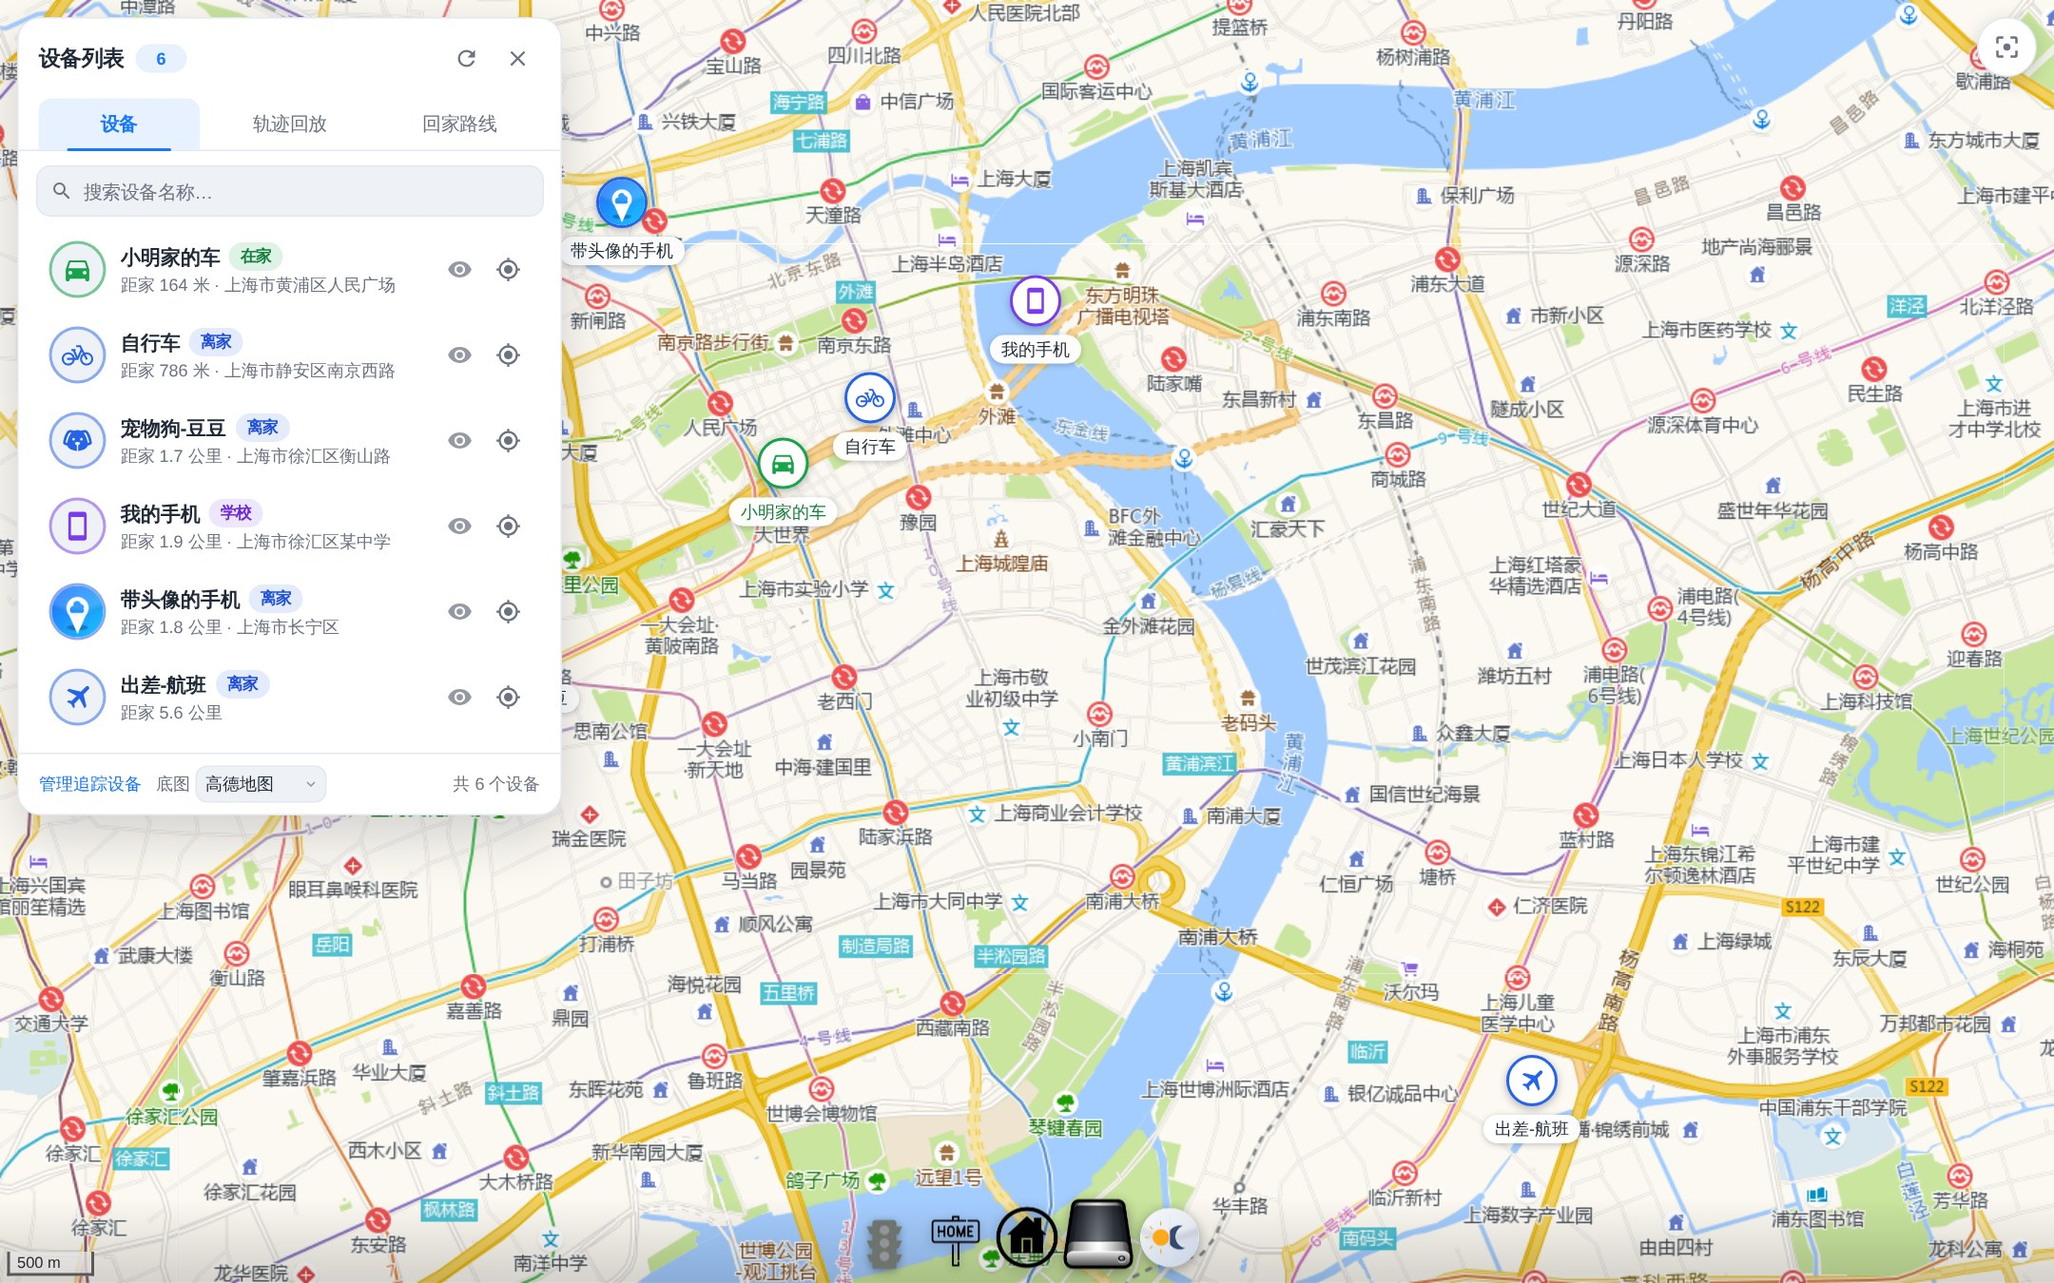
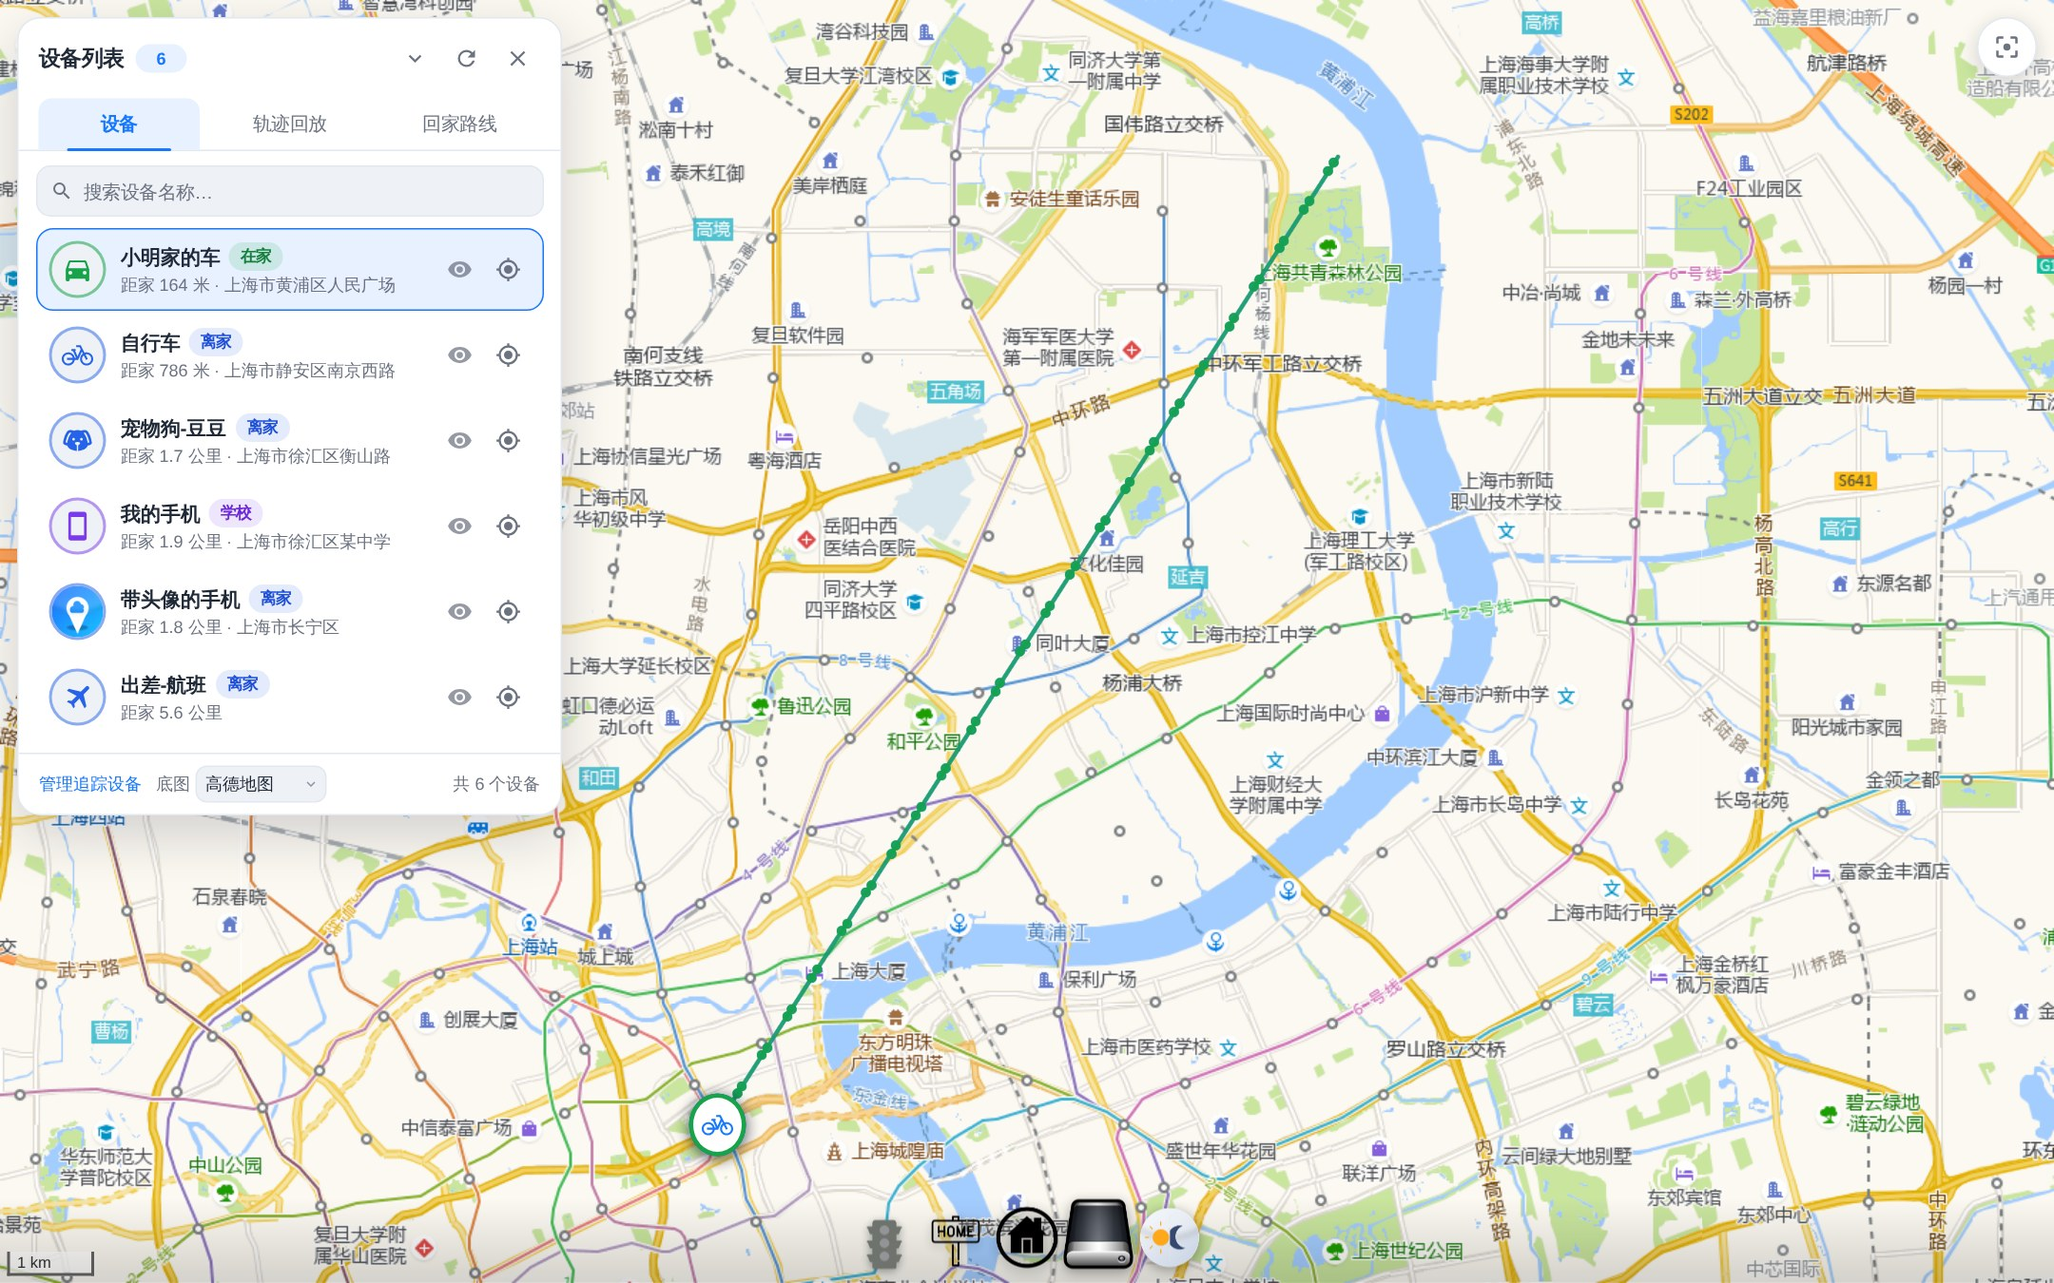
feat: v1.14.0 — 设备列表可收起、修复轨迹页首次列表偏矮、致谢 ryan map-card
- 面板标题栏新增收起/展开设备列表按钮：收起后保留页签、轨迹/路线主按钮、播放与位置拖动，隐藏列表/范围/速度/底部栏，移动端面板高度 723→270
- 修复轨迹页首次进入只显示 2 行设备、重新进入变 3 行：内容渲染后延迟重新评估紧凑模式，避免按旧高度套用限高
- 文档：README/CHANGELOG/docs 更新，致谢新增 ryanh7/map-card，预览图更新

diff --git a/custom_components/yunshang_map/www/index.js b/custom_components/yunshang_map/www/index.js
@@ -28,6 +28,7 @@ var trackSelectedOrder = []; // 选择顺序（决定轨迹颜色）
 var trackedDeviceIds = [];   // 已加载轨迹的设备
 var playbackState = "idle";  // idle | playing | paused
 var trackRealtimeHidden = false; // 回放轨迹时隐藏实时设备标记
+var listsCollapsed = false; // 设备列表是否已收起（收起后只保留操作按钮/拖拽条）
 var trackVisible = false;
 var backhomeTrackEnabled = false;
 var backhomeTrackType = "drive";
@@ -133,10 +134,12 @@ function initAuthToken() {
 }
 
 function initStaticUi() {
+    document.getElementById("btnPanelMinimize").innerHTML = ysIcon("chevron-down");
     document.getElementById("btnPanelRefresh").innerHTML = ysIcon("refresh");
     document.getElementById("btnPanelClose").innerHTML = ysIcon("close");
     document.getElementById("searchIcon").innerHTML = ysIcon("magnify");
     document.getElementById("fitViewIcon").innerHTML = ysIcon("image-filter-center-focus");
+    $("#btnPanelMinimize").attr("title", "收起设备列表").attr("aria-label", "收起设备列表").attr("aria-expanded", "true");
     $("#btnPanelRefresh").attr("title", "刷新设备位置").attr("aria-label", "刷新设备位置");
     $("#btnPanelClose").attr("title", "关闭").attr("aria-label", "关闭");
     $("#trackHint").text("");
@@ -183,6 +186,9 @@ function bindUi() {
     });
 
     /* 面板开合 */
+    $("#btnPanelMinimize").on("click", function () {
+        setListsCollapsed(!listsCollapsed);
+    });
     $("#btnPanelClose").on("click", closePanel);
     $("#btnPanelRefresh").on("click", function () {
         var btn = this;
@@ -403,9 +409,12 @@ function openPanel() {
     panelVisible = true;
     document.body.classList.add("ys-panel-open");
     layoutPanel();
+    if (listsCollapsed) {
+        setListsCollapsed(false, true);
+    }
     requestAnimationFrame(function () {
         panel.classList.add("is-open");
-        updatePanelCompact();
+        schedulePanelCompact();
     });
     syncToolbarState(["devicelist"]);
     renderDeviceList(true);
@@ -444,12 +453,48 @@ function switchTab(tab) {
         body.scrollTop = 0;
     }
     SaveState();
-    updatePanelCompact();
     if (tab === "track") {
         renderTrackDeviceList();
         refreshDevices(false);
     } else if (tab === "route") {
         renderRouteList();
+    }
+    schedulePanelCompact();
+}
+
+/** 内容变化后（下一帧/稍后）重新评估抽屉紧凑模式，避免读到旧高度 */
+function schedulePanelCompact() {
+    if (schedulePanelCompact.timer) {
+        clearTimeout(schedulePanelCompact.timer);
+    }
+    requestAnimationFrame(updatePanelCompact);
+    schedulePanelCompact.timer = setTimeout(function () {
+        schedulePanelCompact.timer = null;
+        updatePanelCompact();
+    }, 80);
+}
+
+/** 收起 / 展开设备列表（收起后保留页签、范围、播放、路线等操作） */
+function setListsCollapsed(collapsed, silent) {
+    listsCollapsed = !!collapsed;
+    var card = document.querySelector('#devicePanel .ys-panel-card');
+    if (card) {
+        card.classList.toggle("lists-collapsed", listsCollapsed);
+    }
+    var btn = document.getElementById("btnPanelMinimize");
+    if (btn) {
+        btn.innerHTML = ysIcon(listsCollapsed ? "chevron-up" : "chevron-down");
+        btn.title = listsCollapsed ? "展开设备列表" : "收起设备列表";
+        btn.setAttribute("aria-label", btn.title);
+        btn.setAttribute("aria-expanded", listsCollapsed ? "false" : "true");
+        btn.classList.toggle("is-on", listsCollapsed);
+    }
+    var hint = document.getElementById("listsCollapsedHint");
+    if (hint) {
+        hint.hidden = !listsCollapsed;
+    }
+    if (!silent) {
+        schedulePanelCompact();
     }
 }
 
@@ -470,6 +515,10 @@ function updatePanelCompact() {
     var trackPane = document.querySelector('.ys-pane[data-pane="track"]');
     var apply = !!(trackPane && trackPane.classList.contains("is-active"));
     var loaded = !!trackVisible;
+    if (listsCollapsed) {
+        card.classList.remove("is-compact-1", "is-compact-2", "is-compact-3");
+        return;
+    }
     var h = card.clientHeight;
     card.classList.toggle("is-compact-1", apply && h < 560);
     card.classList.toggle("is-compact-2", apply && loaded && h < 470);
@@ -1006,6 +1055,7 @@ function renderTrackDeviceList() {
     }
     container.innerHTML = html.length ? html.join("") : '<div class="ys-hint">暂无可选设备</div>';
     updatePlaybackUi();
+    schedulePanelCompact();
 }
 
 function updateTrackSelectSelection() {
@@ -1550,7 +1600,7 @@ function loadSelectedTracks() {
         updateTrackHintText();
         renderTrackDeviceList();
         renderDeviceList();
-        updatePanelCompact();
+        schedulePanelCompact();
         SaveState();
     }
 
@@ -1631,7 +1681,7 @@ function hideTrack() {
     updateRangeFill(document.getElementById("trackSeek"));
     setTrackHint("");
     renderTrackDeviceList();
-    updatePanelCompact();
+    schedulePanelCompact();
     SaveState();
 }
 

diff --git a/custom_components/yunshang_map/www/index.html b/custom_components/yunshang_map/www/index.html
@@ -15,28 +15,28 @@
 
     <script src="js/jquery-1.12.4.min.js"></script>
 
-    <script src="config.js?v=1.13.0"></script>
-    <script src="js/utils.js?v=1.13.0"></script>
-    <script src="js/language.js?v=1.13.0"></script>
-    <script src="js/theme.js?v=1.13.0"></script>
-    <script src="js/uiicons.js?v=1.13.0"></script>
-    <script src="js/deviceicons.js?v=1.13.0"></script>
-    <script src="js/entityutils.js?v=1.13.0"></script>
+    <script src="config.js?v=1.14.0"></script>
+    <script src="js/utils.js?v=1.14.0"></script>
+    <script src="js/language.js?v=1.14.0"></script>
+    <script src="js/theme.js?v=1.14.0"></script>
+    <script src="js/uiicons.js?v=1.14.0"></script>
+    <script src="js/deviceicons.js?v=1.14.0"></script>
+    <script src="js/entityutils.js?v=1.14.0"></script>
 
-    <script src="js/dock.js?v=1.13.0"></script>
-    <link rel="stylesheet" href="css/dock.css?v=1.13.0">
+    <script src="js/dock.js?v=1.14.0"></script>
+    <link rel="stylesheet" href="css/dock.css?v=1.14.0">
 
     <link rel="stylesheet" href="leaflet/leaflet.css" />
     <link rel="stylesheet" href="leaflet/markercluster.css" />
     <link rel="stylesheet" href="leaflet/markercluster-default.css" />
-    <script src="leaflet/leaflet.js?v=1.13.0"></script>
-    <script src="leaflet/markercluster.js?v=1.13.0"></script>
-    <script src="leaflet/proj4.js?v=1.13.0"></script>
-    <script src="leaflet/proj4leaflet.js?v=1.13.0"></script>
-    <script src="js/geo.js?v=1.13.0"></script>
-    <script src="js/mapleaflet.js?v=1.13.0"></script>
-    <script src="js/map.js?v=1.13.0"></script>
-    <link rel="stylesheet" href="css/map.css?v=1.13.0">
+    <script src="leaflet/leaflet.js?v=1.14.0"></script>
+    <script src="leaflet/markercluster.js?v=1.14.0"></script>
+    <script src="leaflet/proj4.js?v=1.14.0"></script>
+    <script src="leaflet/proj4leaflet.js?v=1.14.0"></script>
+    <script src="js/geo.js?v=1.14.0"></script>
+    <script src="js/mapleaflet.js?v=1.14.0"></script>
+    <script src="js/map.js?v=1.14.0"></script>
+    <link rel="stylesheet" href="css/map.css?v=1.14.0">
 
 </head>
 
@@ -63,6 +63,8 @@
                     <span id="panelCount" class="ys-count">0</span>
                 </div>
                 <div class="ys-panel-header-actions">
+                    <button type="button" id="btnPanelMinimize" class="ys-icon-btn" title="收起设备列表"
+                        aria-label="收起设备列表" aria-expanded="true"></button>
                     <button type="button" id="btnPanelRefresh" class="ys-icon-btn" title="刷新设备位置"></button>
                     <button type="button" id="btnPanelClose" class="ys-icon-btn" title="关闭"></button>
                 </div>
@@ -84,6 +86,7 @@
                     </div>
                     <div class="ys-device-list" id="deviceList"></div>
                     <div class="ys-empty" id="deviceEmpty" hidden>未发现可追踪的设备</div>
+                    <div class="ys-collapsed-hint" id="listsCollapsedHint" hidden>设备列表已收起，点击右上角按钮展开</div>
                 </div>
 
                 <!-- 轨迹回放 -->
@@ -208,7 +211,7 @@
         <img id="toolbar_theme" src="images/toolbar_theme_auto.png" width="42" alt="主题模式" title="主题模式">
     </div>
 
-    <script src="index.js?v=1.13.0"></script>
+    <script src="index.js?v=1.14.0"></script>
 </body>
 
 </html>

diff --git a/custom_components/yunshang_map/www/js/uiicons.js b/custom_components/yunshang_map/www/js/uiicons.js
@@ -3,6 +3,7 @@ var YS_UI_ICONS = {
     "arrow-left": "M20,11V13H8L13.5,18.5L12.08,19.92L4.16,12L12.08,4.08L13.5,5.5L8,11H20Z",
     "arrow-right": "M4,11V13H16L10.5,18.5L11.92,19.92L19.84,12L11.92,4.08L10.5,5.5L16,11H4Z",
     "chevron-down": "M7.41,8.58L12,13.17L16.59,8.58L18,10L12,16L6,10L7.41,8.58Z",
+    "chevron-up": "M7.41,15.41L12,10.83L16.59,15.41L18,14L12,8L6,14L7.41,15.41Z",
     "close": "M19,6.41L17.59,5L12,10.59L6.41,5L5,6.41L10.59,12L5,17.59L6.41,19L12,13.41L17.59,19L19,17.59L13.41,12L19,6.41Z",
     "cog": "M12,15.5A3.5,3.5 0 0,1 8.5,12A3.5,3.5 0 0,1 12,8.5A3.5,3.5 0 0,1 15.5,12A3.5,3.5 0 0,1 12,15.5M19.43,12.97C19.47,12.65 19.5,12.33 19.5,12C19.5,11.67 19.47,11.34 19.43,11L21.54,9.37C21.73,9.22 21.78,8.95 21.66,8.73L19.66,5.27C19.54,5.05 19.27,4.96 19.05,5.05L16.56,6.05C16.04,5.66 15.5,5.32 14.87,5.07L14.5,2.42C14.46,2.18 14.25,2 14,2H10C9.75,2 9.54,2.18 9.5,2.42L9.13,5.07C8.5,5.32 7.96,5.66 7.44,6.05L4.95,5.05C4.73,4.96 4.46,5.05 4.34,5.27L2.34,8.73C2.21,8.95 2.27,9.22 2.46,9.37L4.57,11C4.53,11.34 4.5,11.67 4.5,12C4.5,12.33 4.53,12.65 4.57,12.97L2.46,14.63C2.27,14.78 2.21,15.05 2.34,15.27L4.34,18.73C4.46,18.95 4.73,19.03 4.95,18.95L7.44,17.94C7.96,18.34 8.5,18.68 9.13,18.93L9.5,21.58C9.54,21.82 9.75,22 10,22H14C14.25,22 14.46,21.82 14.5,21.58L14.87,18.93C15.5,18.67 16.04,18.34 16.56,17.94L19.05,18.95C19.27,19.03 19.54,18.95 19.66,18.73L21.66,15.27C21.78,15.05 21.73,14.78 21.54,14.63L19.43,12.97Z",
     "crosshairs": "M3.05,13H1V11H3.05C3.5,6.83 6.83,3.5 11,3.05V1H13V3.05C17.17,3.5 20.5,6.83 20.95,11H23V13H20.95C20.5,17.17 17.17,20.5 13,20.95V23H11V20.95C6.83,20.5 3.5,17.17 3.05,13M12,5A7,7 0 0,0 5,12A7,7 0 0,0 12,19A7,7 0 0,0 19,12A7,7 0 0,0 12,5Z",

diff --git a/custom_components/yunshang_map/www/css/map.css b/custom_components/yunshang_map/www/css/map.css
@@ -2260,3 +2260,28 @@ html[data-theme="dark"] .ys-mode-switch button.is-active {
     color: var(--ys-text-dim);
     white-space: nowrap;
 }
+
+/* 收起设备列表：只保留页签、轨迹/路线主按钮、播放与位置拖动，尽量减少地图遮挡 */
+.ys-panel-card.lists-collapsed .ys-toolbar,
+.ys-panel-card.lists-collapsed #deviceList,
+.ys-panel-card.lists-collapsed .ys-track-device-field,
+.ys-panel-card.lists-collapsed .ys-range-scope,
+.ys-panel-card.lists-collapsed .ys-speed-field,
+.ys-panel-card.lists-collapsed #trackHint,
+.ys-panel-card.lists-collapsed .ys-panel-footer,
+.ys-panel-card.lists-collapsed .ys-pane[data-pane="route"] > .ys-field:first-child {
+    display: none;
+}
+
+.ys-collapsed-hint {
+    padding: 10px 6px 14px;
+    text-align: center;
+    font-size: 12px;
+    line-height: 18px;
+    color: var(--ys-text-dim);
+}
+
+.ys-panel-card.lists-collapsed .ys-panel-header-actions #btnPanelMinimize.is-on {
+    background: var(--ys-accent-soft);
+    color: var(--ys-accent);
+}

diff --git a/custom_components/yunshang_map/www/map.js b/custom_components/yunshang_map/www/map.js
@@ -16,7 +16,7 @@ customElements.whenDefined('ha-panel-lovelace').then(() => {
   const html = LitElement.prototype.html;
   const css = LitElement.prototype.css;
 
-  const CARD_VERSION = "1.13.0";
+  const CARD_VERSION = "1.14.0";
 
   const MAP_TYPES = [
     { value: "amap", label: "高德地图" },

diff --git a/README.md b/README.md
@@ -18,9 +18,14 @@ Home Assistant 自定义集成 + Lovelace 卡片：在 HA 中显示 `device_trac
 - **回家路线**：驾车 / 骑行 / 步行，并计算回家用时（需要配置高德 Key + jscode）。
 - **多底图**：高德地图 / 卫星、百度地图 / 卫星、OSM，面板底部一键切换；路况、家的位置与范围、设备列表均可开关。
 - **主题**：浅色 / 深色 / 跟随系统，设置会记住，并同步到内嵌卡片。
+- **设备列表可收起**：标题栏新增最小化按钮，收起后只保留页签、回放范围、播放/路线按钮和拖拽条，尽量不挡地图。
 - **移动端**：底部抽屉可拖动，横屏 / 折叠屏自动切换侧边布局。
 
 ![深色主题](docs/preview-dark.jpg)
+
+*收起设备列表后只保留页签、播放/位置拖动和必要按钮，地图视野更大*
+
+![收起设备列表](docs/preview-collapsed.jpg)
 
 ## 安装
 
@@ -65,6 +70,7 @@ aspect_ratio: 16:9
 - **回家路线**：「回家路线」页签勾选设备 →「显示回家路线」，可切换驾车/骑行/步行。
 - **设备详情**：点击地图图标，或双击设备列表中的设备。
 - **卡片**：编辑仪表盘添加「定制地图」卡片，可直接可视化配置实体、缩放、底图、主题等。
+- **收起设备列表**：面板标题栏右侧的下箭头按钮可收起/展开设备列表；收起后回放范围、播放、回家路线等操作仍可用，面板更小、更少遮挡地图。
 
 ![面板与轨迹回放](docs/preview-panel.jpg)
 
@@ -92,6 +98,7 @@ aspect_ratio: 16:9
 ## 致谢
 
 - [dscao/gaode_maps](https://github.com/dscao/gaode_maps)：本项目的直接上游
+- [ryanh7/map-card](https://github.com/ryanh7/map-card)：GPS 精度圈、自动适配视野、实体多选与配置项组织方式的参考
 - [cxlwill/ha-inkwavemap](https://github.com/cxlwill/ha-inkwavemap)、[shaonianzhentan/google_maps](https://github.com/shaonianzhentan/google_maps)：早期参考实现
 - [高德开放平台](https://lbs.amap.com/)：地图服务
 - [Leaflet](https://leafletjs.com/) / [Leaflet.markercluster](https://github.com/Leaflet/Leaflet.markercluster) / [proj4js](https://github.com/proj4js/proj4js) / [Proj4Leaflet](https://github.com/kartena/Proj4Leaflet)：地图渲染

diff --git a/CHANGELOG.md b/CHANGELOG.md
@@ -7,10 +7,20 @@
 
 ## [Unreleased]
 
-### 文档
+## [v1.14.0]
 
-- README 精简；版本历史拆分为 `CHANGELOG.md`。
-- 新增 `AGENTS.md` 与 `docs/` 文档（配置、架构、排障、升级）。
+### 新增
+
+- **设备列表最小化**：面板标题栏新增收起/展开按钮。收起后只保留页签、回放范围、播放/停止、回家路线等操作和拖拽条，面板高度明显变小，尽量不遮挡地图；面板关闭后重新打开自动恢复展开。
+- **文档重构**：README 精简；版本历史迁移到 `CHANGELOG.md`；新增 `AGENTS.md` 与 `docs/`（配置、架构、排障、升级）；更新预览图。
+
+### 修复
+
+- **轨迹页首次进入只显示 2 个设备、重新进入变成 3 个**：紧凑模式在列表内容渲染前按旧高度计算，首次进入可能被错误套用“列表限高 112px”；现在内容渲染后延迟重新评估，首次进入即可正常显示 3 行。
+
+### 致谢
+
+- 新增对 [ryanh7/map-card](https://github.com/ryanh7/map-card) 的参考致谢（GPS 精度圈、自动适配视野、实体多选与配置项组织方式）。
 
 ## [v1.13.0]
 

diff --git a/docs/CONFIGURATION.md b/docs/CONFIGURATION.md
@@ -114,6 +114,12 @@ entity_picture（图片） > 实体自定义 icon（mdi 图标） > 按设备名
 3. **只想用图标**：「设置 → 设备与服务 → 实体」中选择该 `device_tracker`，点齿轮修改图标（如 `mdi:car`、`mdi:cellphone`），插件会读取实体 `icon`。
 4. `/api/image/serve/...` 的图片 ID 与人员头像绑定，更换头像后需同步更新；也可以把头像放到 `config/www/` 下用 `/local/xxx.png` 引用，更稳定。
 
+## 收起设备列表
+
+- 面板标题栏右侧有一个下箭头按钮：点击收起设备列表，只保留页签、回放范围、播放/停止、回家路线按钮和拖拽条，尽量不遮挡地图。
+- 再次点击（变为上箭头）即可展开；面板关闭后重新打开会自动恢复展开状态。
+- 收起状态下仍可正常播放/暂停轨迹、拖动轨迹位置、显示/隐藏回家路线。
+
 ## 数据源与刷新
 
 - 内嵌在 HA 中：优先 WebSocket（`get_states`、`get_config`、`history/history_during_period`），实时、无需令牌。

diff --git a/docs/ARCHITECTURE.md b/docs/ARCHITECTURE.md
@@ -98,12 +98,13 @@ www/index.js  ──► deviceStore / trackSelected / 状态列表
 ### 移动端与主题
 
 - 移动端为底部抽屉，可拖动；吸附 45% / 68% / 90%，向下拖过 30% 关闭。
+- 标题栏可收起设备列表：收起后隐藏列表/范围/速度等次要内容，保留页签、轨迹/路线主按钮、播放与位置拖动，减少地图遮挡。
 - 横屏/折叠屏（高度 ≤520 且宽度 ≥600）使用侧边布局。
 - 轨迹加载后按宽度进入三级紧凑模式。
 - 主题：浅色 / 深色 / 跟随系统；深色下对瓦片加暗色滤镜。
 - 安全区适配、列表独立滚动。
 
-## 与 ryan map-card 的功能对照
+## 与 [ryanh7/map-card](https://github.com/ryanh7/map-card) 的功能对照
 
 | 能力 | 说明 | 状态 |
 | --- | --- | --- |
